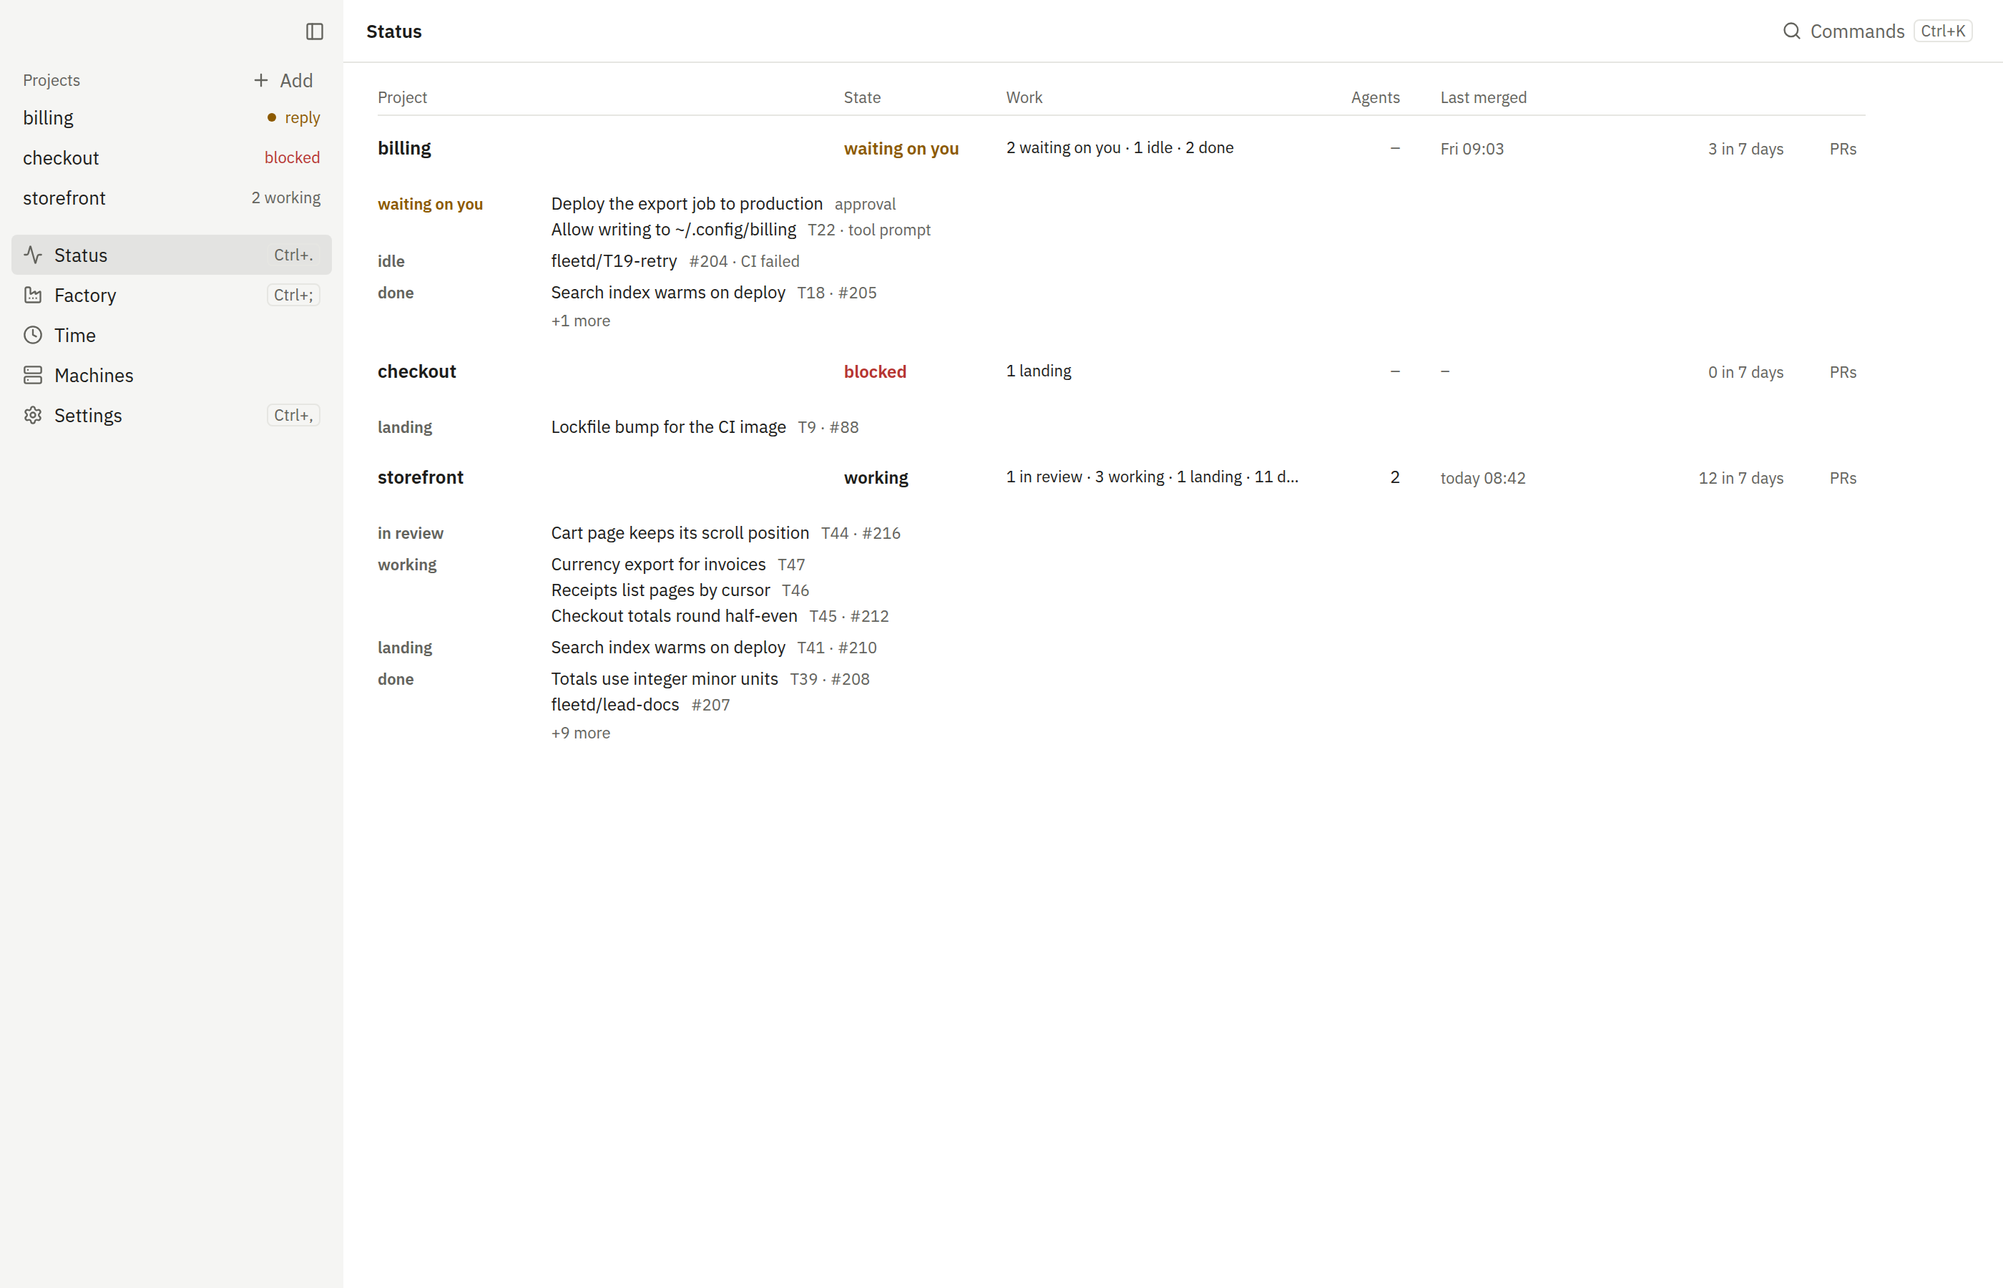
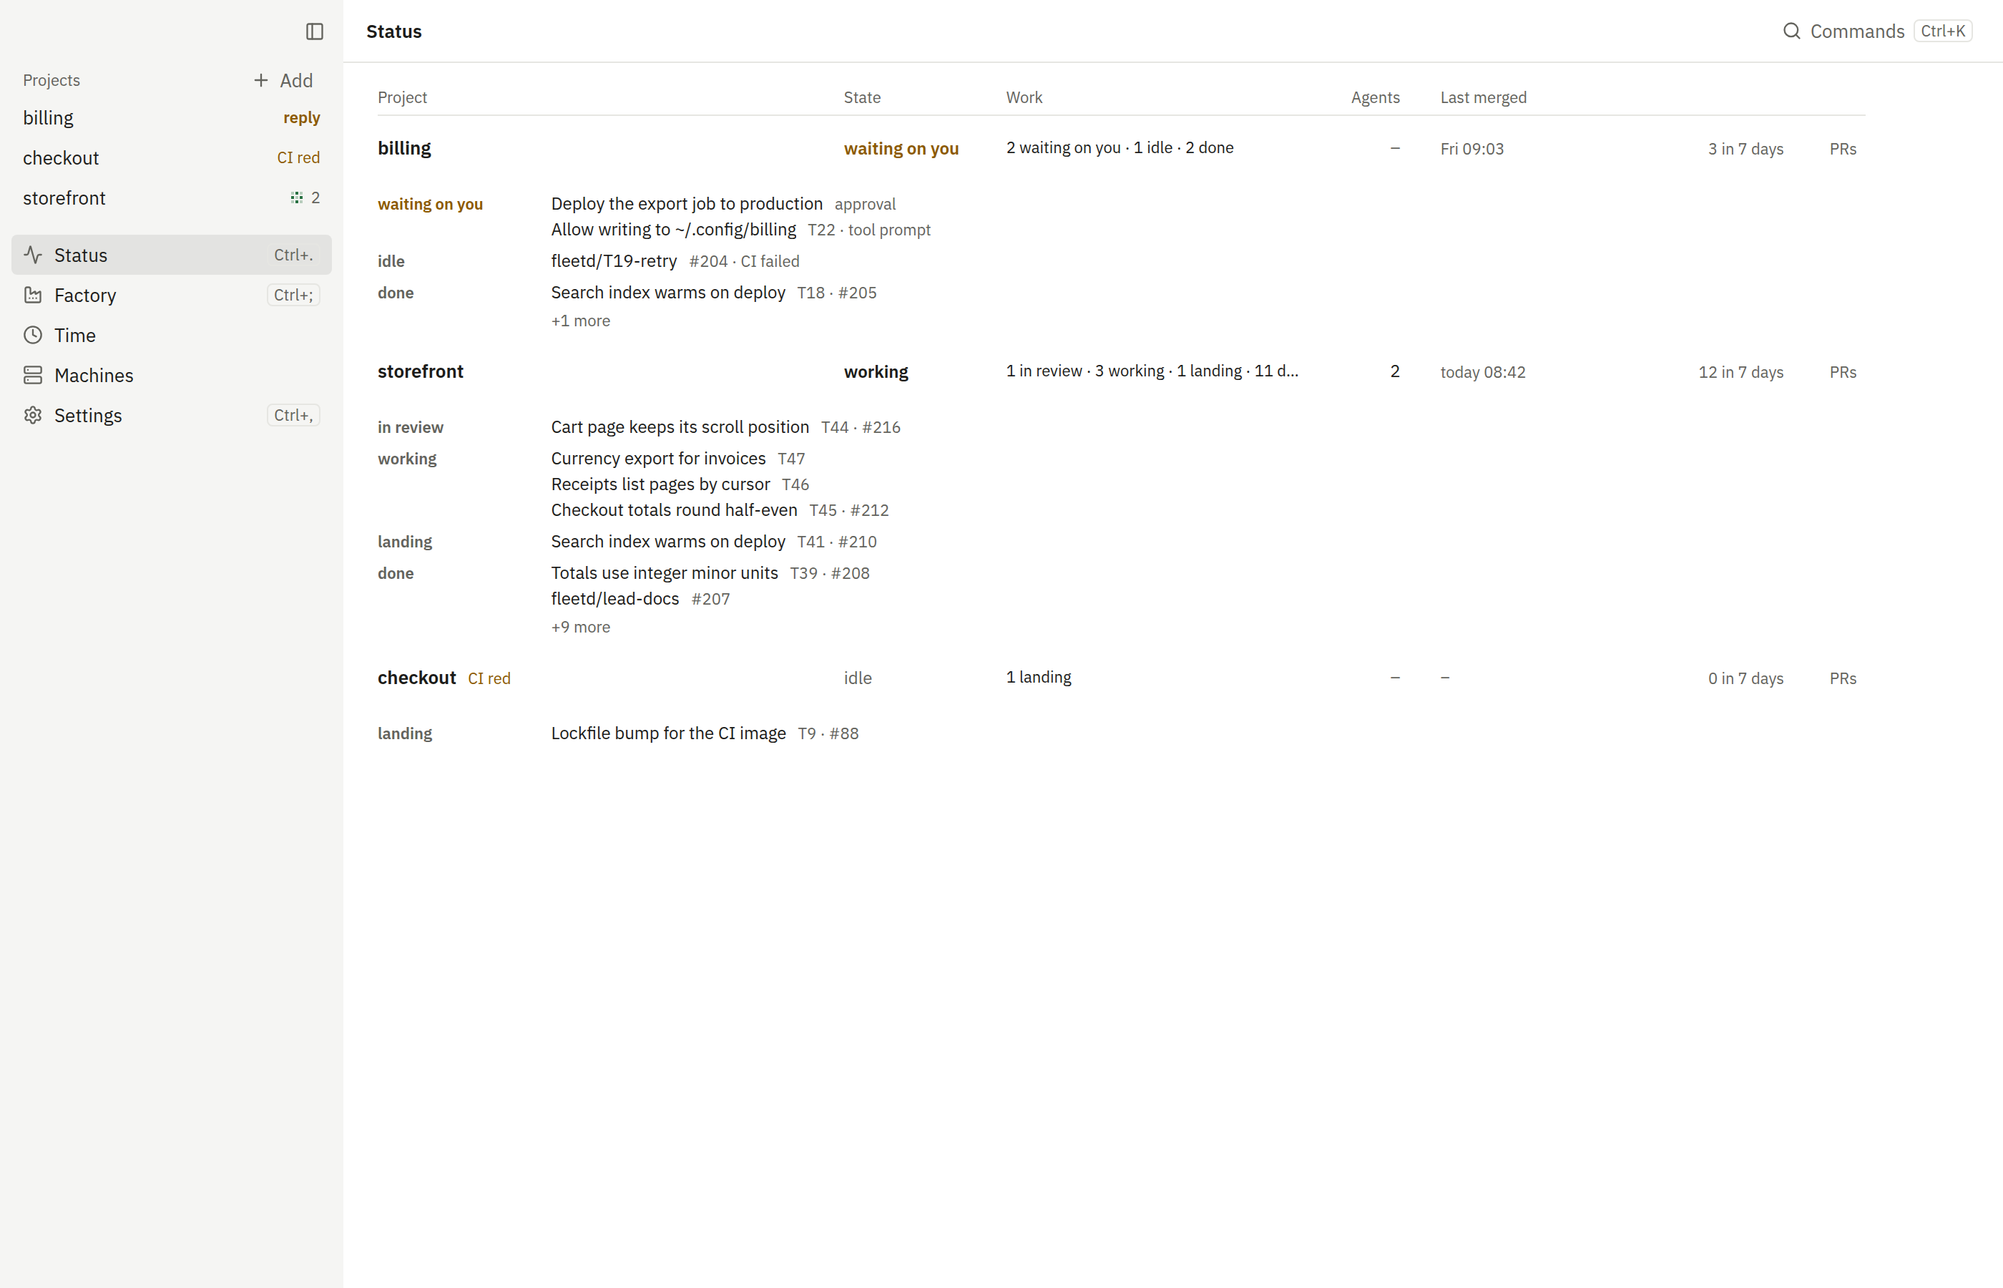
docs: the Status and chat shots show a red main as a "CI red" warning, not "blocked" (W78)
Regenerated docs/site/public/img/status.png and chat.png from the fixtures #607 updated, fixed their alt
text and the chat page's line about main CI, and rebuilt site/docs.

diff --git a/site/docs/chat.html b/site/docs/chat.html
@@ -74,7 +74,7 @@
 </script></div></div></div></sl-sidebar-pane></nav><div class="main-frame astro-yntsjkba"><script type="module">var e=document.getElementById(`starlight__sidebar`),t=e?.querySelector(`sl-sidebar-state-persist`),n=`sl-sidebar-state`,r=()=>{let r=[],i=t?.dataset.hash||``;try{let e=sessionStorage.getItem(n),t=JSON.parse(e||`{}`);Array.isArray(t.open)&&t.hash===i&&(r=t.open)}catch{}return{hash:i,open:r,scroll:e?.scrollTop||0}},i=e=>{try{sessionStorage.setItem(n,JSON.stringify(e))}catch{}},a=()=>i(r()),o=(e,t)=>{let n=r();n.open[t]=e,i(n)};t?.addEventListener(`click`,e=>{if(!(e.target instanceof Element))return;let t=e.target.closest(`summary`)?.closest(`details`);if(!t)return;let n=t.querySelector(`sl-sidebar-restore`),r=parseInt(n?.dataset.index||``);isNaN(r)||o(!t.open,r)}),addEventListener(`visibilitychange`,()=>{document.visibilityState===`hidden`&&a()});</script><div class="lg:sl-flex astro-lrzkfocr"><aside class="right-sidebar-container print:hidden astro-lrzkfocr"><div class="right-sidebar astro-lrzkfocr"><div class="lg:sl-hidden astro-qok35upx"><mobile-starlight-toc data-min-h="2" data-max-h="3" class="astro-66cqc7ze"><nav aria-labelledby="starlight__on-this-page--mobile" class="astro-66cqc7ze"><details id="starlight__mobile-toc" class="astro-66cqc7ze"><summary id="starlight__on-this-page--mobile" class="sl-flex astro-66cqc7ze"><span class="toggle sl-flex astro-66cqc7ze">On this page<svg aria-hidden="true" class="caret astro-66cqc7ze astro-hkc32dio" width="16" height="16" viewBox="0 0 24 24" fill="currentColor" style="--sl-icon-size: 1rem;"><path d="m14.83 11.29-4.24-4.24a1 1 0 1 0-1.42 1.41L12.71 12l-3.54 3.54a1 1 0 0 0 0 1.41 1 1 0 0 0 .71.29 1 1 0 0 0 .71-.29l4.24-4.24a1.002 1.002 0 0 0 0-1.42Z"/></svg></span><span class="display-current astro-66cqc7ze"></span></summary><div class="dropdown astro-66cqc7ze"><ul class="isMobile astro-jugkfwgx" style="--depth: 0;"><li style="--depth: 0;" class="astro-jugkfwgx"><a href="#_top" style="--depth: 0;" class="astro-jugkfwgx"><span style="--depth: 0;" class="astro-jugkfwgx">Overview</span></a></li><li style="--depth: 0;" class="astro-jugkfwgx"><a href="#send" style="--depth: 0;" class="astro-jugkfwgx"><span style="--depth: 0;" class="astro-jugkfwgx">Send a message</span></a></li><li style="--depth: 0;" class="astro-jugkfwgx"><a href="#terminal" style="--depth: 0;" class="astro-jugkfwgx"><span style="--depth: 0;" class="astro-jugkfwgx">From a terminal</span></a></li><li style="--depth: 0;" class="astro-jugkfwgx"><a href="#reply" style="--depth: 0;" class="astro-jugkfwgx"><span style="--depth: 0;" class="astro-jugkfwgx">Reply to the lead</span></a></li><li style="--depth: 0;" class="astro-jugkfwgx"><a href="#voice" style="--depth: 0;" class="astro-jugkfwgx"><span style="--depth: 0;" class="astro-jugkfwgx">How the lead writes</span></a></li><li style="--depth: 0;" class="astro-jugkfwgx"><a href="#steer" style="--depth: 0;" class="astro-jugkfwgx"><span style="--depth: 0;" class="astro-jugkfwgx">Steer while it works</span></a></li><li style="--depth: 0;" class="astro-jugkfwgx"><a href="#follow" style="--depth: 0;" class="astro-jugkfwgx"><span style="--depth: 0;" class="astro-jugkfwgx">Follow the work</span></a></li><li style="--depth: 0;" class="astro-jugkfwgx"><a href="#prs" style="--depth: 0;" class="astro-jugkfwgx"><span style="--depth: 0;" class="astro-jugkfwgx">Read a pull request</span></a></li><li style="--depth: 0;" class="astro-jugkfwgx"><a href="#history" style="--depth: 0;" class="astro-jugkfwgx"><span style="--depth: 0;" class="astro-jugkfwgx">Earlier work</span></a></li><li style="--depth: 0;" class="astro-jugkfwgx"><a href="#stop" style="--depth: 0;" class="astro-jugkfwgx"><span style="--depth: 0;" class="astro-jugkfwgx">Stop everything</span></a></li><li style="--depth: 0;" class="astro-jugkfwgx"><a href="#inline" style="--depth: 0;" class="astro-jugkfwgx"><span style="--depth: 0;" class="astro-jugkfwgx">Secrets and risky commands</span></a></li><li style="--depth: 0;" class="astro-jugkfwgx"><a href="#done" style="--depth: 0;" class="astro-jugkfwgx"><span style="--depth: 0;" class="astro-jugkfwgx">Done</span></a></li></ul></div></details></nav></mobile-starlight-toc><script type="module" src="/docs/_astro/MobileTableOfContents.astro_astro_type_script_index_0_lang.C3fM4Kra.js"></script></div><div class="right-sidebar-panel sl-hidden lg:sl-block astro-qok35upx"><div class="sl-container astro-qok35upx"><starlight-toc data-min-h="2" data-max-h="3"><nav aria-labelledby="starlight__on-this-page"><h2 id="starlight__on-this-page">On this page</h2><ul class="astro-jugkfwgx" style="--depth: 0;"><li style="--depth: 0;" class="astro-jugkfwgx"><a href="#_top" style="--depth: 0;" class="astro-jugkfwgx"><span style="--depth: 0;" class="astro-jugkfwgx">Overview</span></a></li><li style="--depth: 0;" class="astro-jugkfwgx"><a href="#send" style="--depth: 0;" class="astro-jugkfwgx"><span style="--depth: 0;" class="astro-jugkfwgx">Send a message</span></a></li><li style="--depth: 0;" class="astro-jugkfwgx"><a href="#terminal" style="--depth: 0;" class="astro-jugkfwgx"><span style="--depth: 0;" class="astro-jugkfwgx">From a terminal</span></a></li><li style="--depth: 0;" class="astro-jugkfwgx"><a href="#reply" style="--depth: 0;" class="astro-jugkfwgx"><span style="--depth: 0;" class="astro-jugkfwgx">Reply to the lead</span></a></li><li style="--depth: 0;" class="astro-jugkfwgx"><a href="#voice" style="--depth: 0;" class="astro-jugkfwgx"><span style="--depth: 0;" class="astro-jugkfwgx">How the lead writes</span></a></li><li style="--depth: 0;" class="astro-jugkfwgx"><a href="#steer" style="--depth: 0;" class="astro-jugkfwgx"><span style="--depth: 0;" class="astro-jugkfwgx">Steer while it works</span></a></li><li style="--depth: 0;" class="astro-jugkfwgx"><a href="#follow" style="--depth: 0;" class="astro-jugkfwgx"><span style="--depth: 0;" class="astro-jugkfwgx">Follow the work</span></a></li><li style="--depth: 0;" class="astro-jugkfwgx"><a href="#prs" style="--depth: 0;" class="astro-jugkfwgx"><span style="--depth: 0;" class="astro-jugkfwgx">Read a pull request</span></a></li><li style="--depth: 0;" class="astro-jugkfwgx"><a href="#history" style="--depth: 0;" class="astro-jugkfwgx"><span style="--depth: 0;" class="astro-jugkfwgx">Earlier work</span></a></li><li style="--depth: 0;" class="astro-jugkfwgx"><a href="#stop" style="--depth: 0;" class="astro-jugkfwgx"><span style="--depth: 0;" class="astro-jugkfwgx">Stop everything</span></a></li><li style="--depth: 0;" class="astro-jugkfwgx"><a href="#inline" style="--depth: 0;" class="astro-jugkfwgx"><span style="--depth: 0;" class="astro-jugkfwgx">Secrets and risky commands</span></a></li><li style="--depth: 0;" class="astro-jugkfwgx"><a href="#done" style="--depth: 0;" class="astro-jugkfwgx"><span style="--depth: 0;" class="astro-jugkfwgx">Done</span></a></li></ul></nav></starlight-toc><script type="module" src="/docs/_astro/TableOfContents.astro_astro_type_script_index_0_lang.BpJaGz7G.js"></script></div></div></div></aside><div class="main-pane astro-lrzkfocr"><main data-pagefind-body class="astro-g5ptsecz" lang="en" dir="ltr"><div class="content-panel astro-a7po4psb"><div class="sl-container astro-a7po4psb"><h1 id="_top" class="astro-bebwqqxs">Chat with the lead</h1></div></div><div class="content-panel astro-a7po4psb"><div class="sl-container astro-a7po4psb"><div class="sl-markdown-content"><p>You’ll give a project work by chatting with its <a href="/docs/glossary#lead">lead</a>, the way you’d talk to an engineer.</p>
 <div class="expressive-code"><link rel="stylesheet" href="/docs/_astro/ec.83jdg.css"><script type="module" src="/docs/_astro/ec.0vx5m.js"></script><figure class="frame not-content"><figcaption class="header"></figcaption><pre data-language="text"><code><div class="ec-line"><div class="code"><span style="--0:#e1e4e8;--1:#24292e">You:   the checkout button is misaligned on mobile Safari, fix it</span></div></div><div class="ec-line"><div class="code"><span style="--0:#e1e4e8;--1:#24292e">Lead:  On it. One writer on the CSS, one reviewer after.</span></div></div><div class="ec-line"><div class="code"><span class="indent"><span style="--0:#e1e4e8;--1:#24292e">       </span></span><span style="--0:#e1e4e8;--1:#24292e">▸ 2 agents working</span></div></div><div class="ec-line"><div class="code"><span style="--0:#e1e4e8;--1:#24292e">Lead:  Fixed in "Align the checkout button on Safari", merged.</span></div></div></code></pre><div class="copy"><div aria-live="polite"></div><button title="Copy to clipboard" data-copied="Copied!" data-code="You:   the checkout button is misaligned on mobile Safari, fix itLead:  On it. One writer on the CSS, one reviewer after.       ▸ 2 agents workingLead:  Fixed in &quot;Align the checkout button on Safari&quot;, merged."><div></div></button></div></figure></div>
 <p>Each project has one lead and one ongoing chat. Click the project in the sidebar to open it.</p>
-<p><img src="/docs/img/chat.png" alt="The storefront project’s chat: you asked to round the cart totals once, the lead replied that the writers start from PR #10’s branch and split the change into three PRs, and the strip above the message box shows three agents working. The panel’s Agents tab lists them: reviewers on #221 and #222 and a writer. In the sidebar, billing says reply and checkout says blocked."></p>
+<p><img src="/docs/img/chat.png" alt="The storefront project’s chat: you asked to round the cart totals once, the lead replied that the writers start from PR #10’s branch and split the change into three PRs, and the strip above the message box shows three agents working. The panel’s Agents tab lists them: reviewers on #221 and #222 and a writer. In the sidebar, billing says reply and checkout says CI red."></p>
 <div class="sl-heading-wrapper level-h2"><h2 id="send">Send a message</h2><a class="sl-anchor-link" href="#send"><span aria-hidden="true" class="sl-anchor-icon"><svg width="16" height="16" viewBox="0 0 24 24" fill="currentColor"><path d="m12.11 15.39-3.88 3.88a2.52 2.52 0 0 1-3.5 0 2.47 2.47 0 0 1 0-3.5l3.88-3.88a1 1 0 1 0-1.42-1.42l-3.88 3.89a4.48 4.48 0 0 0 6.33 6.33l3.89-3.88a1 1 0 0 0-1.42-1.42m8.58-12.08a4.49 4.49 0 0 0-6.33 0l-3.89 3.88a1 1 0 1 0 1.42 1.42l3.88-3.88a2.52 2.52 0 0 1 3.5 0 2.47 2.47 0 0 1 0 3.5l-3.88 3.88a1 1 0 0 0 0 1.42 1 1 0 0 0 1.42 0l3.88-3.89a4.49 4.49 0 0 0 0-6.33M8.83 15.17a1 1 0 0 0 .71.29 1 1 0 0 0 .71-.29l4.92-4.92a1 1 0 1 0-1.42-1.42l-4.92 4.92a1 1 0 0 0 0 1.42"></path></svg></span><span class="sr-only" data-pagefind-ignore>Section titled “Send a message”</span></a></div>
 <p>Type in the box at the bottom of the chat and press Enter. Shift+Enter adds a new line. The box has the cursor
 as soon as a chat opens. A new chat asks what the lead should do, with a few starters that fill the box for you to edit.</p>
@@ -161,8 +161,8 @@ lead, with one exception: 👍 on the message the lead waits on, or on an Approv
 sidebar, a project says “reply” while the lead’s last message waits for your answer, “secret” or “approve” while an
 item is open, and “blocked” when something outside the work holds it up. ⌥⌘A jumps to the next one. In the chat, a
 line above the box says what it waits on, such as “2 questions, asked at 09:02” or “1 command to approve”. Click Show
-to scroll to it. When nothing waits on you but the project is blocked, the line says why, such as “Blocked: main CI is
-red”.</p>
+to scroll to it. When nothing waits on you but the project is blocked, the line says why. A check red on main blocks nothing, so the
+line warns instead, naming the check and whether a fix is under way: “<code dir="auto">rust (macos)</code> is red on main, fix in progress”.</p>
 <div class="sl-heading-wrapper level-h2"><h2 id="voice">How the lead writes</h2><a class="sl-anchor-link" href="#voice"><span aria-hidden="true" class="sl-anchor-icon"><svg width="16" height="16" viewBox="0 0 24 24" fill="currentColor"><path d="m12.11 15.39-3.88 3.88a2.52 2.52 0 0 1-3.5 0 2.47 2.47 0 0 1 0-3.5l3.88-3.88a1 1 0 1 0-1.42-1.42l-3.88 3.89a4.48 4.48 0 0 0 6.33 6.33l3.89-3.88a1 1 0 0 0-1.42-1.42m8.58-12.08a4.49 4.49 0 0 0-6.33 0l-3.89 3.88a1 1 0 1 0 1.42 1.42l3.88-3.88a2.52 2.52 0 0 1 3.5 0 2.47 2.47 0 0 1 0 3.5l-3.88 3.88a1 1 0 0 0 0 1.42 1 1 0 0 0 1.42 0l3.88-3.89a4.49 4.49 0 0 0 0-6.33M8.83 15.17a1 1 0 0 0 .71.29 1 1 0 0 0 .71-.29l4.92-4.92a1 1 0 1 0-1.42-1.42l-4.92 4.92a1 1 0 0 0 0 1.42"></path></svg></span><span class="sr-only" data-pagefind-ignore>Section titled “How the lead writes”</span></a></div>
 <p>The lead texts like a teammate: short messages, split into bubbles, with PR numbers, commands and errors exact. When
 words aren’t the best fit it sends a block instead: a chart, a table, a diff, a live card for a PR or an agent, a

diff --git a/site/docs/desktop-app.html b/site/docs/desktop-app.html
@@ -186,7 +186,7 @@ on a chat attach to your message. See <a href="/docs/projects#add-a-project">Add
 </tr>
 </tbody>
 </table>
-<p><img src="/docs/img/chat.png" alt="The storefront project’s chat: you asked to round the cart totals once, the lead replied that the writers start from PR #10’s branch and split the change into three PRs, and the strip above the message box shows three agents working. The panel’s Agents tab lists them: reviewers on #221 and #222 and a writer. In the sidebar, billing says reply and checkout says blocked."></p>
+<p><img src="/docs/img/chat.png" alt="The storefront project’s chat: you asked to round the cart totals once, the lead replied that the writers start from PR #10’s branch and split the change into three PRs, and the strip above the message box shows three agents working. The panel’s Agents tab lists them: reviewers on #221 and #222 and a writer. In the sidebar, billing says reply and checkout says CI red."></p>
 <div class="sl-heading-wrapper level-h3"><h3 id="offline">When the hub is out of reach</h3><a class="sl-anchor-link" href="#offline"><span aria-hidden="true" class="sl-anchor-icon"><svg width="16" height="16" viewBox="0 0 24 24" fill="currentColor"><path d="m12.11 15.39-3.88 3.88a2.52 2.52 0 0 1-3.5 0 2.47 2.47 0 0 1 0-3.5l3.88-3.88a1 1 0 1 0-1.42-1.42l-3.88 3.89a4.48 4.48 0 0 0 6.33 6.33l3.89-3.88a1 1 0 0 0-1.42-1.42m8.58-12.08a4.49 4.49 0 0 0-6.33 0l-3.89 3.88a1 1 0 1 0 1.42 1.42l3.88-3.88a2.52 2.52 0 0 1 3.5 0 2.47 2.47 0 0 1 0 3.5l-3.88 3.88a1 1 0 0 0 0 1.42 1 1 0 0 0 1.42 0l3.88-3.89a4.49 4.49 0 0 0 0-6.33M8.83 15.17a1 1 0 0 0 .71.29 1 1 0 0 0 .71-.29l4.92-4.92a1 1 0 1 0-1.42-1.42l-4.92 4.92a1 1 0 0 0 0 1.42"></path></svg></span><span class="sr-only" data-pagefind-ignore>Section titled “When the hub is out of reach”</span></a></div>
 <p>Your projects and recent chats stay on screen, marked “Offline, as of 09:02”. You can keep writing: each message shows
 “queued” and sends by itself when the app reconnects, once, even if you quit in between. Edit or Dismiss takes a queued
@@ -230,7 +230,7 @@ force first. What it replaced, or that you revoked it, folds under it. Search, o
 where it applies; open a row for its why and history, and change or revoke the decision there. The tab’s count is
 the decisions in force.</p>
 <div class="sl-heading-wrapper level-h2"><h2 id="status">Status</h2><a class="sl-anchor-link" href="#status"><span aria-hidden="true" class="sl-anchor-icon"><svg width="16" height="16" viewBox="0 0 24 24" fill="currentColor"><path d="m12.11 15.39-3.88 3.88a2.52 2.52 0 0 1-3.5 0 2.47 2.47 0 0 1 0-3.5l3.88-3.88a1 1 0 1 0-1.42-1.42l-3.88 3.89a4.48 4.48 0 0 0 6.33 6.33l3.89-3.88a1 1 0 0 0-1.42-1.42m8.58-12.08a4.49 4.49 0 0 0-6.33 0l-3.89 3.88a1 1 0 1 0 1.42 1.42l3.88-3.88a2.52 2.52 0 0 1 3.5 0 2.47 2.47 0 0 1 0 3.5l-3.88 3.88a1 1 0 0 0 0 1.42 1 1 0 0 0 1.42 0l3.88-3.89a4.49 4.49 0 0 0 0-6.33M8.83 15.17a1 1 0 0 0 .71.29 1 1 0 0 0 .71-.29l4.92-4.92a1 1 0 1 0-1.42-1.42l-4.92 4.92a1 1 0 0 0 0 1.42"></path></svg></span><span class="sr-only" data-pagefind-ignore>Section titled “Status”</span></a></div>
-<p><img src="/docs/img/status.png" alt="Status with one row per project: billing waiting on you, checkout blocked, storefront working, each with its work in groups and its last merge."></p>
+<p><img src="/docs/img/status.png" alt="Status with one row per project: billing waiting on you, storefront working, and checkout idle with a CI red tag, each with its work in groups and its last merge."></p>
 <p>Status shows one row per project: a state word (waiting on you, blocked, working or idle), its work in groups (waiting
 on you, in review, working, landing, idle, done), the agents running, and when the last pull request merged. Under it,
 each item opens its agent or pull request in the panel. Click a row to open that project’s chat, or PRs for its pull

diff --git a/docs/site/src/content/docs/chat.md b/docs/site/src/content/docs/chat.md
@@ -14,7 +14,7 @@ Lead:  Fixed in "Align the checkout button on Safari", merged.
 
 Each project has one lead and one ongoing chat. Click the project in the sidebar to open it.
 
-![The storefront project's chat: you asked to round the cart totals once, the lead replied that the writers start from PR #10's branch and split the change into three PRs, and the strip above the message box shows three agents working. The panel's Agents tab lists them: reviewers on #221 and #222 and a writer. In the sidebar, billing says reply and checkout says blocked.](/docs/img/chat.png)
+![The storefront project's chat: you asked to round the cart totals once, the lead replied that the writers start from PR #10's branch and split the change into three PRs, and the strip above the message box shows three agents working. The panel's Agents tab lists them: reviewers on #221 and #222 and a writer. In the sidebar, billing says reply and checkout says CI red.](/docs/img/chat.png)
 
 ## Send a message {#send}
 
@@ -92,8 +92,8 @@ The lead logs each answer as a [decision](/docs/glossary#decision), so it never 
 sidebar, a project says "reply" while the lead's last message waits for your answer, "secret" or "approve" while an
 item is open, and "blocked" when something outside the work holds it up. ⌥⌘A jumps to the next one. In the chat, a
 line above the box says what it waits on, such as "2 questions, asked at 09:02" or "1 command to approve". Click Show
-to scroll to it. When nothing waits on you but the project is blocked, the line says why, such as "Blocked: main CI is
-red".
+to scroll to it. When nothing waits on you but the project is blocked, the line says why. A check red on main blocks nothing, so the
+line warns instead, naming the check and whether a fix is under way: "`rust (macos)` is red on main, fix in progress".
 
 ## How the lead writes {#voice}
 
